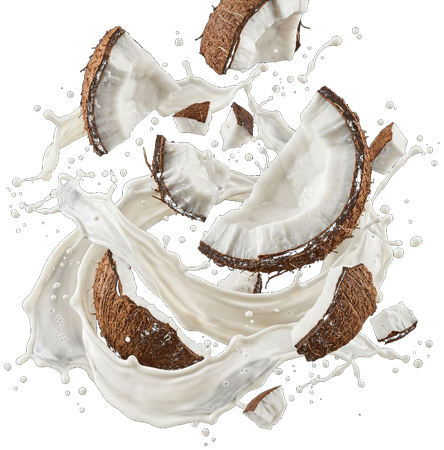
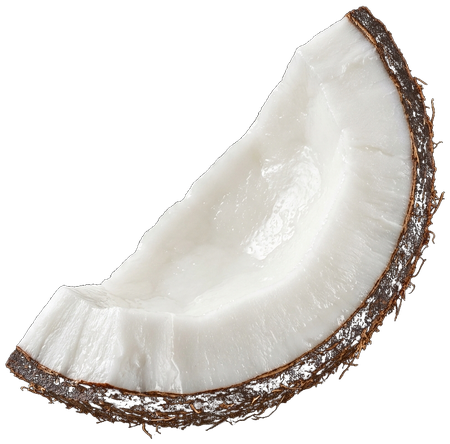
feat(hero): replace messy coconut splash on right with clean solid fresh coconut wedge

diff --git a/src/config/hero-slides.ts b/src/config/hero-slides.ts
@@ -96,7 +96,7 @@ export const heroSlides: HeroSlide[] = [
     image: '/products/hero-drpepper-coconut.png',
     floatingElements: [
       { src: '/hero/coconut-half.png', alt: 'Demi noix de coco', depth: 0.85, initialX: '19%', initialY: '36%', size: 120, rotation: -12 },
-      { src: '/hero/coconut-chunk.png', alt: 'Éclats de noix de coco et crème', depth: 0.8, initialX: '81%', initialY: '34%', size: 125, rotation: 15 },
+      { src: '/hero/coconut-chunk.png', alt: 'Quartier de noix de coco', depth: 0.8, initialX: '81%', initialY: '34%', size: 120, rotation: 15 },
       { src: '/hero/ice-cube-1.svg', alt: 'Glaçon', depth: 0.4, initialX: '22%', initialY: '68%', size: 55, rotation: 30 },
       { src: '/hero/ice-cube-2.svg', alt: 'Glaçon', depth: 0.7, initialX: '80%', initialY: '66%', size: 70, rotation: -25 },
       { src: '/hero/drop-1.svg', alt: 'Goutte', depth: 0.5, initialX: '26%', initialY: '18%', size: 38, rotation: 12 },
